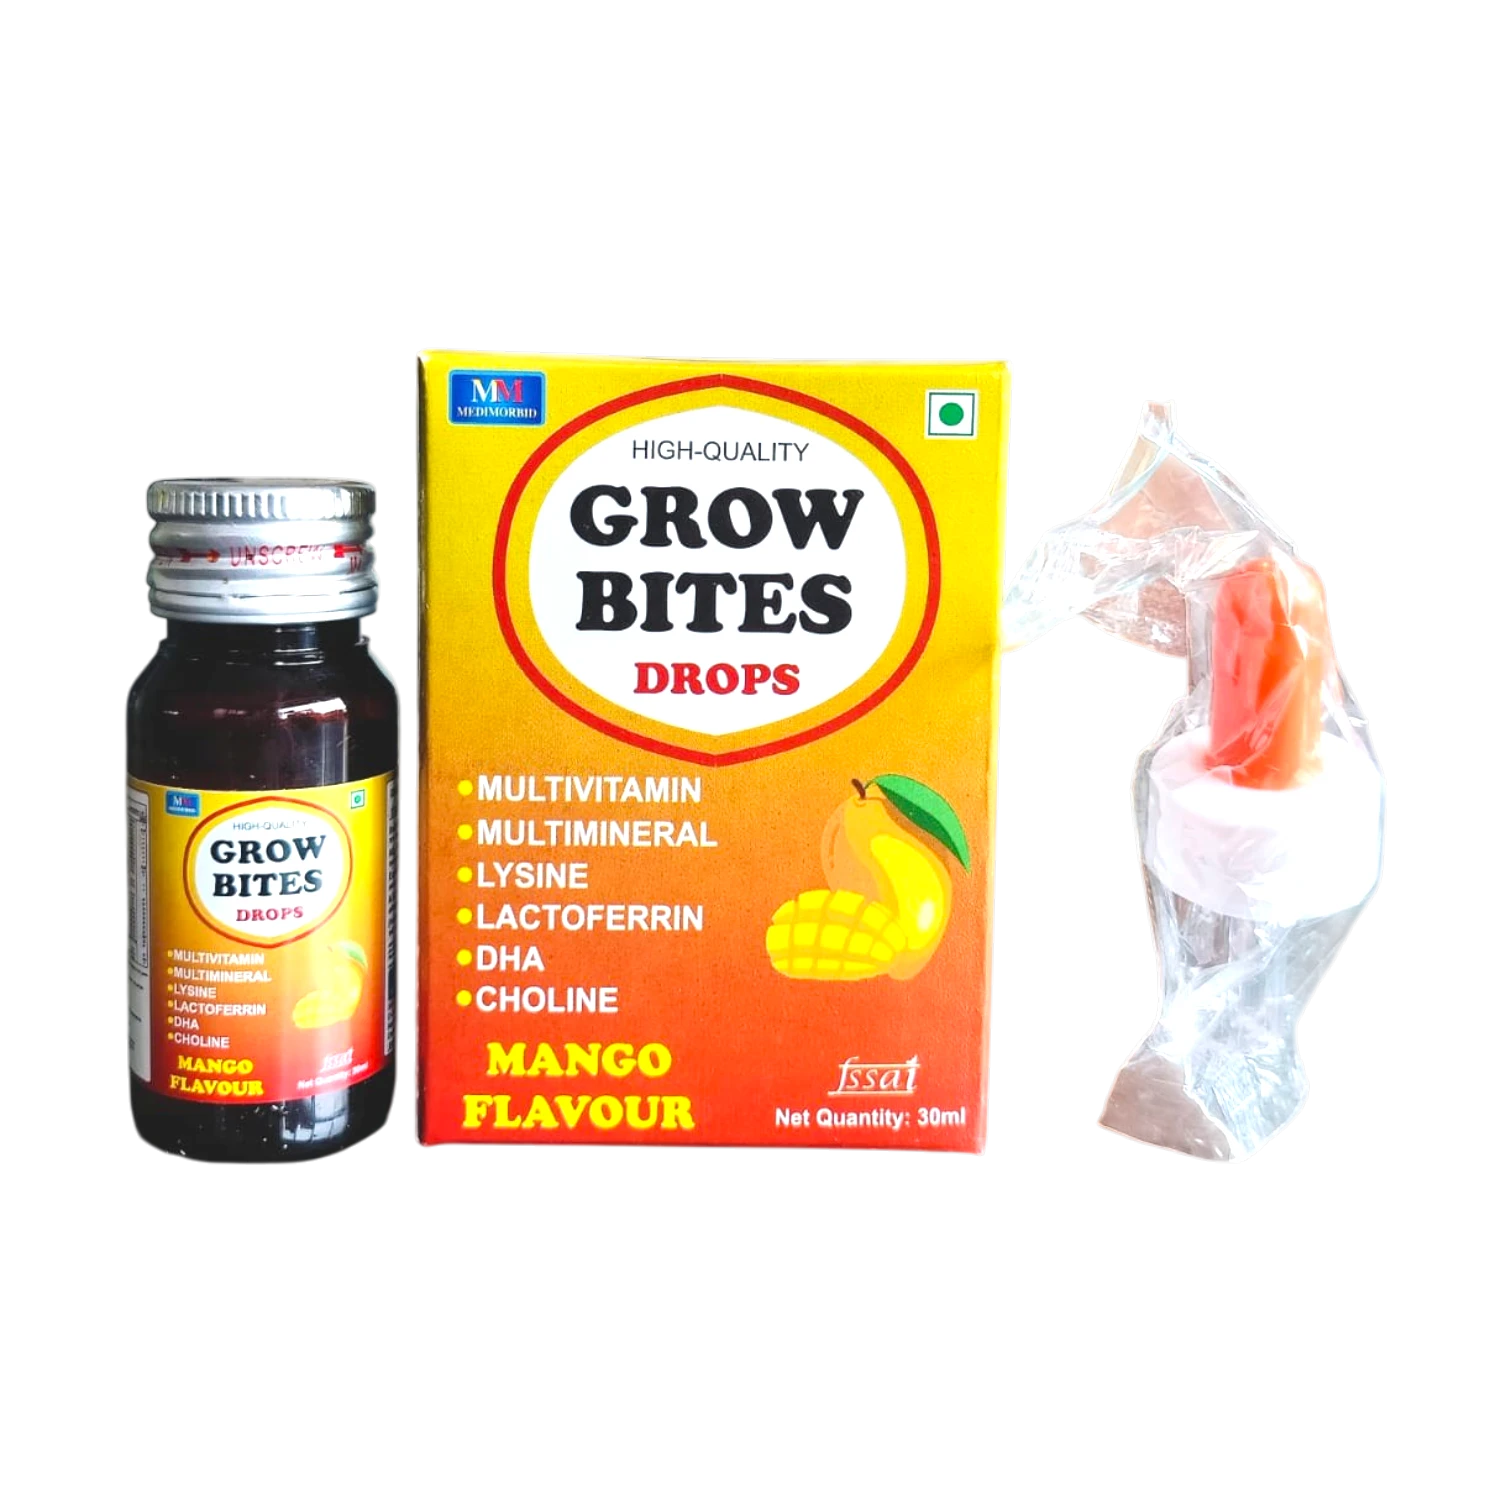
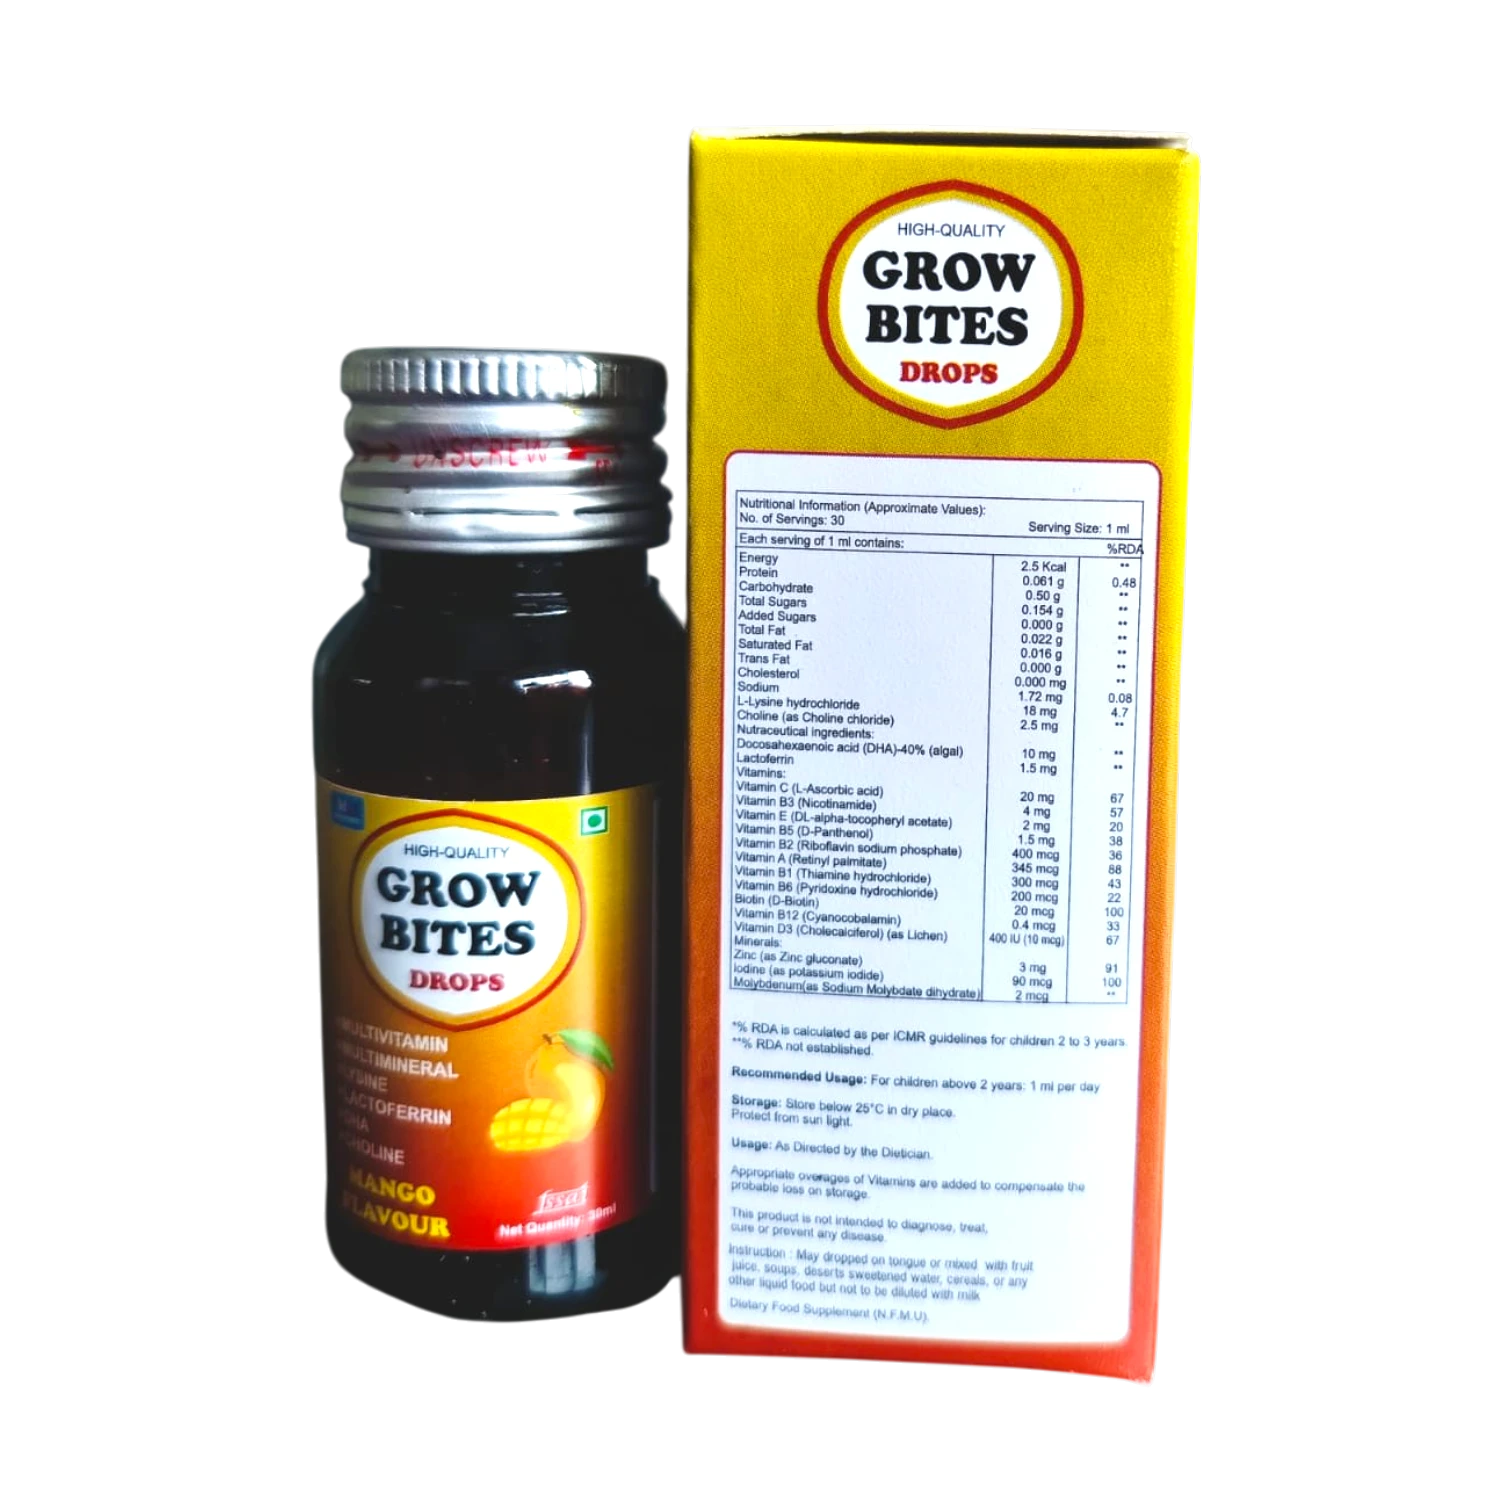
Client corrections: update Grow Bites and i-NutriX images

diff --git a/src/constants/products.js b/src/constants/products.js
@@ -37,7 +37,6 @@ export const products = {
     subtitle: "20 Sachets (5 gm each)",
     description: "Prebiotics, Probiotics, Multivitamin, Multimineral, KSM-66 Ashwagandha & Brahmi Sachets.",
     images: [
-      "/images/inutrix/DSC_0968.webp",
       "/images/inutrix/DSC_0968 (1).webp",
       "/images/inutrix/DSC_0968 (2).webp",
       "/images/inutrix/DSC_0968 (3).webp",
@@ -66,12 +65,12 @@ export const products = {
   },
   growBites: {
     title: "Grow Bites",
-    subtitle: "Nutritional Supplement",
-    description: "Comprehensive nutritional support for growth and overall wellness.",
+    subtitle: "Comprehensive Nutritional Support for Growth and overall Wellness for Child",
+    description: "A targeted formulation to ensure healthy development and daily nutritional support.",
     images: [
       "/images/growbites/DSC_0968.webp",
-      "/images/growbites/DSC_0968 (2).webp",
-      "/images/growbites/DSC_0968 (3).webp"
+      "/images/growbites/DSC_0968 (1).webp",
+      "/images/growbites/DSC_0968 (2).webp"
     ],
     ingredients: ["Essential Vitamins", "Minerals", "Growth Factors"],
     sugarFree: false,
